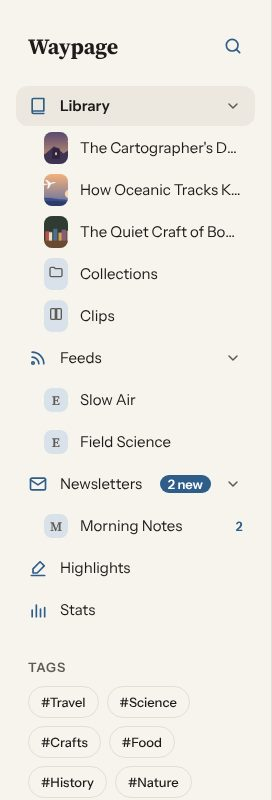
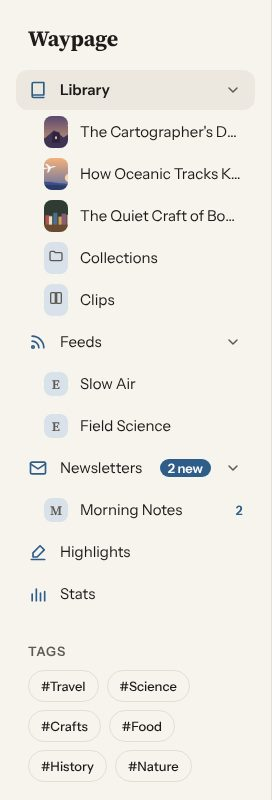
Settings as a window from the gear on big screens; Search and Settings at the top right; keys 1 to 5 for the sidebar's places
Claude-Session: https://claude.ai/code/session_01CFeKriHfoWW1T4GBSE4CQR

diff --git a/src/app-reader.js b/src/app-reader.js
@@ -35,9 +35,9 @@ function cover(node, on) {
 const covered = (node) => !!node.dataset.covered;
 document.addEventListener("focusin", (e) => {
   if (!e.target.closest || !e.target.closest("[data-covered]")) return;
-  const tops = [...document.querySelectorAll(".screen:not([hidden]):not([data-covered]), #sidebar:not([hidden]), #menuSheet:not([hidden])")];
+  const tops = [...document.querySelectorAll(".screen:not([hidden]):not([data-covered]), #sidebar:not([hidden]):not([data-covered]), #menuSheet:not([hidden])")];
   const top = tops[tops.length - 1];
-  const first = top && top.querySelector("button:not(:disabled), [href], input:not(:disabled), [tabindex]:not([tabindex=\"-1\"])");
+  const first = top && [...top.querySelectorAll("button:not(:disabled), [href], input:not(:disabled), [tabindex]:not([tabindex=\"-1\"])")].find((n) => n.getClientRects().length);
   if (first) first.focus({ preventScroll: true }); else e.target.blur();
 });
 
@@ -94,11 +94,13 @@ const asPane = (screen) => screen.id === "readerView" && pinned.matches && inner
 
 function pushScreen(screen) {
   pushes.set(screen, (pushes.get(screen) || 0) + 1);
+  // In Settings' window a section takes the pane at once, like a tab.
   if (screen.id === "sectionView" && wide.matches) {
     screen.dataset.beside = "1";
     screen.hidden = false;
-    return M.push(screen);
+    return Promise.resolve();
   }
+  if (screen.id === "settingsView" && wide.matches) return openWin(screen);
   delete screen.dataset.beside;
   const dialog = asDialog(screen);
   if (dialog || asPane(screen)) {
@@ -135,6 +137,54 @@ function pushScreen(screen) {
   moved.then(() => { if (pushes.get(screen) === n && !screen.hidden && !screen.dataset.leaving) cover(under, true); });
   return moved;
 }
+// Settings on a big screen (1.49.0): a window over the library that
+// grows out of the gear it was opened from and shrinks back into it,
+// like Downloads and Sync. Until then the whole screen slid in from the
+// right and its menu crossed the window to land on the left. Its menu
+// and section are still the two screens they are on a phone, inside
+// #settingsWin, which is their box (display: contents on a phone).
+let winGone = Promise.resolve(), winTurn = 0;
+const gear = () => ($("settingsBtn").offsetParent ? $("settingsBtn") : null);
+function openWin(screen) {
+  const win = $("settingsWin"), c = $("screenCatch");
+  const again = !!win.dataset.open && !win.dataset.leaving;
+  winTurn++;
+  delete win.dataset.leaving;
+  win.dataset.open = "1";
+  screen.hidden = false;
+  c.classList.remove("clear");
+  c.hidden = false;
+  M.dim(c, true);
+  const n = pushes.get(screen);
+  afterSettle(() => {
+    if (pushes.get(screen) !== n || win.dataset.leaving) return;
+    cover(below(screen), true);
+    cover($("sidebar"), true);
+  });
+  if (again) return Promise.resolve();
+  const from = gear();
+  $("settingsBack").focus({ preventScroll: true });
+  return M.popFrom(win, from && from.getBoundingClientRect());
+}
+function closeWin(screen, hide) {
+  const win = $("settingsWin"), c = $("screenCatch"), n = pushes.get(screen), t = ++winTurn;
+  win.dataset.leaving = "1";
+  M.dim(c, false).then(() => { if (winTurn === t) c.hidden = true; });
+  cover(below(screen), false);
+  cover($("sidebar"), false);
+  const to = gear();
+  winGone = M.popInto(win, to && to.getBoundingClientRect()).then(() => {
+    if (pushes.get(screen) !== n || winTurn !== t) return;
+    delete win.dataset.open;
+    delete win.dataset.leaving;
+    hide();
+    const b = gear();
+    const a = document.activeElement;
+    if (b && (!a || a === document.body || a.closest("#settingsWin"))) b.focus({ preventScroll: true });
+  });
+  return winGone;
+}
+
 // Heavy work after an animation's first frame, so it starts at once.
 const afterStart = (fn) => requestAnimationFrame(() => setTimeout(fn, 0));
 // Work after a spring has all but landed (0.30.8).
@@ -143,7 +193,9 @@ const afterSettle = (fn) => setTimeout(fn, M.reduced() ? 130 : 300);
 function popScreen(screen) {
   const n = pushes.get(screen);
   const hide = () => { if (pushes.get(screen) === n) screen.hidden = true; };
-  if (screen.dataset.beside) return M.pop(screen).then(hide);
+  // A section closing with the window goes when the window has gone.
+  if (screen.dataset.beside) return ($("settingsWin").dataset.leaving ? winGone : Promise.resolve()).then(hide);
+  if (screen.id === "settingsView" && $("settingsWin").dataset.open) return closeWin(screen, hide);
   if (screen.dataset.dialog || screen.dataset.pane) {
     screen.dataset.leaving = "1";
     if (screen.dataset.dialog) {
@@ -1707,14 +1759,13 @@ function placeAloudBar() {
   const gutter = parseFloat(getComputedStyle(document.documentElement).getPropertyValue("--gutter")) || 16;
   const safe = parseFloat(getComputedStyle(bar).getPropertyValue("--safe-bottom")) || 0;
   const w = bar.offsetWidth, h = bar.offsetHeight;
-  // Docked at the foot of the pinned sidebar (1.5.0), over Settings,
-  // when the sidebar is what's beside it.
+  // Docked at the foot of the pinned sidebar (1.5.0), when the sidebar
+  // is what's beside it.
   const docked = pinned.matches && !document.querySelector("#readerView:not([hidden]), #settingsView:not([hidden])");
   bar.classList.toggle("docked", docked);
   document.body.classList.toggle("aloud-docked", docked);
   if (docked) {
-    const settings = $("sidebar").querySelector(".side-settings");
-    const foot = settings ? settings.getBoundingClientRect().top : innerHeight - gutter;
+    const foot = innerHeight - gutter;
     bar.style.left = parseFloat(getComputedStyle(document.documentElement).getPropertyValue("--s-4")) + "px";
     bar.style.top = foot - h - 8 + "px";
     return;

diff --git a/src/app-places.js b/src/app-places.js
@@ -802,9 +802,7 @@ function renderSide() {
   const hasFolders = allFolders().length > 0;
   fill($("sidebar"),
     el("div", { class: "side-head" },
-      el("p", { class: "side-title" }, "Waypage"),
-      big && inLib ? el("button", { class: "icon-btn side-search", type: "button", "aria-label": "Search", title: "Search (/)",
-        onclick: () => (pinned.matches ? toLibrary() : back()).then(() => { if (state.place !== "library") goPlace("library"); openSearch(); }) }, sideSvg("search")) : null),
+      el("p", { class: "side-title" }, "Waypage")),
     // From inside Collections, Clips, a collection or the favourites
     // (1.20.0), Library steps all the way back to the library itself.
     ...sideFold("library", item(feedIcon("library"), "Library", inLibrary, null, () =>
@@ -838,7 +836,6 @@ function renderSide() {
 
 function sideMore() {
   const tags = allTags().slice(0, 12);
-  const leave = () => (state.side ? back() : Promise.resolve());
   return [
     tags.length ? el("div", { class: "side-space", "aria-hidden": "true" }) : null,
     tags.length ? el("p", { class: "side-over" }, "Tags") : null,
@@ -848,18 +845,17 @@ function sideMore() {
         onclick: () => goPlace("library").then(() => setFilter(on ? "all" : "#" + t)) }, "#" + t);
       return b;
     })) : null,
+    // Search and Settings live at the top bar's right end, as on a phone
+    // (1.49.0, Daniel's ask), not in the sidebar. The gap keeps room for
+    // the docked Narrate player.
     el("span", { class: "side-gap", "aria-hidden": "true" }),
-    el("button", { class: "side-item side-settings", type: "button", onclick: () => leave().then(() => openSettings()) },
-      sideSvg("settings"), el("span", { class: "side-label" }, "Settings")),
   ];
 }
 
 const SIDE_SVG = {
-  search: '<circle cx="11" cy="11" r="7"/><path d="M20 20l-4-4"/>',
   marks: ICONS.mark,
   reading: '<path d="M5 20V12M10 20V6M15 20v-9M20 20V9"/>',
   mail: '<rect x="3" y="5" width="18" height="14" rx="2"/><path d="M3 7l9 6 9-6"/>',
-  settings: '<circle cx="12" cy="12" r="3"/><path d="M19.4 15a1.7 1.7 0 0 0 .3 1.8l.1.1a2 2 0 1 1-2.8 2.8l-.1-.1a1.7 1.7 0 0 0-1.8-.3 1.7 1.7 0 0 0-1 1.5V21a2 2 0 1 1-4 0v-.1a1.7 1.7 0 0 0-1.1-1.5 1.7 1.7 0 0 0-1.8.3l-.1.1a2 2 0 1 1-2.8-2.8l.1-.1a1.7 1.7 0 0 0 .3-1.8 1.7 1.7 0 0 0-1.5-1H3a2 2 0 1 1 0-4h.1a1.7 1.7 0 0 0 1.5-1.1 1.7 1.7 0 0 0-.3-1.8l-.1-.1a2 2 0 1 1 2.8-2.8l.1.1a1.7 1.7 0 0 0 1.8.3H9a1.7 1.7 0 0 0 1-1.5V3a2 2 0 1 1 4 0v.1a1.7 1.7 0 0 0 1 1.5 1.7 1.7 0 0 0 1.8-.3l.1-.1a2 2 0 1 1 2.8 2.8l-.1.1a1.7 1.7 0 0 0-.3 1.8V9a1.7 1.7 0 0 0 1.5 1H21a2 2 0 1 1 0 4h-.1a1.7 1.7 0 0 0-1.5 1z"/>',
 };
 function sideSvg(name) {
   const box = el("span", { class: "side-icon", "aria-hidden": "true" });
@@ -961,7 +957,8 @@ function fitWidth() {
 // rest of the app has letters too, listed behind "?". Keys pressed in
 // the reader's page come here through reader.js.
 const KEYS = [
-  ["Anywhere", [["/", "Search the library"], [(/Mac/.test(navigator.platform) && navigator.maxTouchPoints < 2 ? "⌘" : "Ctrl") + " V", "Save a copied link"], ["G then L", "Go to the library"],
+  ["Anywhere", [["/", "Search the library"], [(/Mac/.test(navigator.platform) && navigator.maxTouchPoints < 2 ? "⌘" : "Ctrl") + " V", "Save a copied link"],
+    ["1  2  3  4  5", "Library, Feeds, Newsletters, Highlights, Stats"], ["G then L", "Go to the library"],
     ["G then F", "Go to Feeds"], ["G then N", "Go to Newsletters"], ["G then H", "Go to Highlights"], ["G then S", "Go to Stats"], ["D", "Downloads"], [",", "Settings"], ["?", "These shortcuts"]]],
   ["In the library", [["↑ ↓", "Move between clips"], ["Enter", "Open"], ["X", "Pick, to act on several"], ["Shift-click", "Pick a run"],
     ["F", "Favourite"], ["E", "Export"], ["Del", "Delete"]]],
@@ -1006,6 +1003,7 @@ function jumpSection(d) {
 }
 
 let gAt = 0;
+const PLACE_KEYS = ["library", "feeds", "newsletters", "highlights", "reading"];
 function onKeys(e) {
   if (e.defaultPrevented || e.isComposing) return;
   const k = e.key, inFrame = e.target && e.target.ownerDocument !== document;
@@ -1062,6 +1060,8 @@ function onKeys(e) {
   const p = focusedPage(), node = focusedNode();
   const acts = {
     g: () => { gAt = Date.now(); },
+    // 1 to 5: the sidebar's places, in its order (1.49.0).
+    ...Object.fromEntries(PLACE_KEYS.map((to, i) => [String(i + 1), () => goPlace(to)])),
     "/": () => (state.folder ? toLibrary() : Promise.resolve()).then(() => {
       if (state.place === "highlights") { $("highlights").querySelector(".hl-search input").focus(); return; }
       return (["feeds", "reading"].includes(state.place) ? goPlace("library") : Promise.resolve()).then(openSearch);

diff --git a/src/styles.css b/src/styles.css
@@ -483,6 +483,8 @@ a.btn-small { text-decoration: none; white-space: nowrap; display: inline-flex; 
 }
 @keyframes breathe { 50% { opacity: 0.35; } }
 
+/* Settings' two screens; a box of their own only on a big screen. */
+.settings-win { display: contents; }
 .screen {
   position: fixed; inset: 0; z-index: 10;
   display: flex; flex-direction: column;
@@ -2260,7 +2262,6 @@ html { -webkit-tap-highlight-color: transparent; }
   .sidebar { width: min(var(--side-w), 85vw); padding: calc(var(--s-5) + env(safe-area-inset-top)) var(--s-4) calc(var(--s-4) + env(safe-area-inset-bottom)); }
   .side-head { display: flex; align-items: center; justify-content: space-between; margin: 0 0 var(--s-4) var(--s-3); }
   .side-head .side-title { margin: 0; }
-  .side-search { color: var(--muted); }
   .side-item { margin: 0; }
   .side-row { margin: 0; }
   .side-sub { margin-inline-start: var(--s-4); }
@@ -2268,7 +2269,6 @@ html { -webkit-tap-highlight-color: transparent; }
   .side-tags { display: flex; flex-wrap: wrap; gap: var(--s-2); padding: 0 var(--s-3); }
   .side-tag { min-height: 32px; }
   .side-gap { flex: 1; min-height: var(--s-4); }
-  .side-settings .side-icon { color: var(--muted); }
 }
 @media (min-width: 700px) and (pointer: fine) {
   .side-item { min-height: 40px; }
@@ -2284,7 +2284,7 @@ html { -webkit-tap-highlight-color: transparent; }
   }
   body.pinned { --lib-left: var(--side-w); --lib-pad: max(var(--gutter), calc((100vw - var(--side-w) - var(--content-max)) / 2)); }
   body.pinned #libraryView { margin-inline-start: var(--side-w); }
-  body.pinned .menu-btn, body.pinned #searchBtn, body.pinned #settingsBtn { display: none; }
+  body.pinned .menu-btn { display: none; }
   body.pinned .side-catch { display: none; }
   /* A collection opens beside the sidebar; the reader and Settings cover
      everything. */
@@ -2430,6 +2430,24 @@ kbd {
   #sectionView .bar-title { text-align: start; font: 700 var(--fs-screen)/var(--lh-screen) var(--serif); }
   #sectionView .screen-body { padding: var(--s-5) var(--s-7) var(--s-8); }
   #sectionView .screen-body > * { margin-left: 0; max-width: 42rem; }
+
+  /* Settings' window (1.49.0): the menu and section inside a box over the
+     library, grown from the gear (openWin in app-reader.js). The box
+     contains them, so their inset: 0 fills it. */
+  .settings-win {
+    display: block; position: fixed; inset: 0; z-index: 13; margin: auto;
+    width: min(65rem, calc(100vw - 2 * var(--s-5))); height: min(46rem, calc(100dvh - 2 * var(--s-6)));
+    background: var(--bg); border: 1px solid var(--line); border-radius: var(--r-lg);
+    box-shadow: 0 24px 64px var(--shadow); overflow: hidden; contain: layout paint;
+  }
+  .settings-win:not([data-open]) { display: none; }
+  .settings-win > .screen { box-shadow: none; }
+  #newsView { z-index: 14; }
+}
+@media (min-width: 700px) and (max-width: 1023px) {
+  .settings-win { --settings-w: 240px; }
+  #sectionView .screen-bar { padding: var(--s-5) var(--s-5) 0; }
+  #sectionView .screen-body { padding: var(--s-4) var(--s-5) var(--s-7); }
 }
 @media (min-width: 700px) and (pointer: fine) {
   .menu-sheet .sheet-row, .reader .sheet .row { min-height: 40px; }

diff --git a/index.html b/index.html
@@ -262,6 +262,7 @@
       <div class="downloads" id="syncList"></div>
     </div>
   </section>
+  <div class="settings-win" id="settingsWin">
   <section class="screen" id="settingsView" hidden aria-label="Settings">
     <header class="screen-bar">
       <button class="icon-btn" id="settingsBack" type="button" aria-label="Back to library">
@@ -291,6 +292,7 @@
     </header>
     <div class="screen-body" id="sectionBody"></div>
   </section>
+  </div>
   <section class="screen" id="newsView" hidden aria-label="What's new">
     <header class="screen-bar">
       <button class="icon-btn" id="newsBack" type="button" aria-label="Back">

diff --git a/src/app-start.js b/src/app-start.js
@@ -25,9 +25,9 @@ function route(s) {
   if (!inSettings) closeSettings();
   else if (!s.section) {
     // Back from a section beside the menu leaves Settings altogether.
-    const had = state.section && state.settings && wide.matches && view === "settings";
+    // The section stays in the window until the window has gone.
+    if (state.section && state.settings && wide.matches && view === "settings") { history.back(); return; }
     closeSection();
-    if (had) { history.back(); return; }
   }
   if (view !== "batch") closeBatch();
   if (view === "batch") openBatch("", true, s.folder);

diff --git a/src/app-settings.js b/src/app-settings.js
@@ -1196,9 +1196,9 @@ function openSettings(fromHistory, at) {
 
 function closeSettings() {
   if (!state.settings) return;
-  closeSection();
-  state.settings = false;
-  popScreen($("settingsView"));
+  // In the window, the window leaves first and takes its section with it.
+  if (wide.matches) { state.settings = false; popScreen($("settingsView")); closeSection(); }
+  else { closeSection(); state.settings = false; popScreen($("settingsView")); }
   const q = $("settingsSearch");
   if (q) { q.value = ""; $("settingsSearchClear").hidden = true; }
   settingsIdx = null;

diff --git a/README.md b/README.md
@@ -50,7 +50,7 @@ Each section below shows the computer (left) and the phone (right).
 
 - Library with favourites, Collections and Clips; Feeds; Newsletters with the latest addresses and unread counts; Highlights; Stats; tags.
 - Library, Feeds and Newsletters fold under an arrow inside their row.
-- Always there on a wide screen, slides in on a phone.
+- Always there on a wide screen, slides in on a phone. Keys 1 to 5 go to its places.
 
 ## Collections and files
 
@@ -173,7 +173,7 @@ Each section below shows the computer (left) and the phone (right).
 
 <p><img src="docs/shots/settings-desktop.jpg" width="74%" alt="Settings on a computer"> <img src="docs/shots/settings-phone.jpg" width="21%" alt="Settings on a phone"></p>
 
-- Settings in groups: Appearance, Reading, Library, App lock, Saving, GitHub sync, Google Drive, Storage; a search box at the top finds any setting.
+- Settings in groups: Appearance, Reading, Library, App lock, Saving, GitHub sync, Google Drive, Storage; a search box at the top finds any setting. On a computer or tablet it opens as a window from the gear at the top right.
 - Every setting is a name and one short line; the longer explanation is behind a ? on its heading. Options are drop-downs, themes a grid of swatches.
 - About has the version, the changelog, and Credits: what Waypage is built with.
 - App lock: passcode, fingerprint or face on Android, erase when forgotten.

diff --git a/NOTES.md b/NOTES.md
@@ -18,6 +18,20 @@ Moved here from TODO.md (11 Oct 2026), which now lists only open work.
 
 ## Entries
 
+**Settings is a window on a big screen (1.49.0).** From 700 px it slid
+in from the right like a phone screen, but its menu ends up on the
+left, where the sidebar is, so the menu crossed the whole window to get
+there (Daniel: "comes from the wrong side"). It now grows out of the
+gear as a window over the dimmed library, like Downloads and Sync
+(Daniel's pick of two, the other being menu from the left and section
+from the right). The menu and section stay two screens so the phone is
+untouched; `#settingsWin` around them is `display: contents` on a phone
+and their box (with `contain: layout paint`, so their `position: fixed;
+inset: 0` fills it) from 700 px. A section changes in place there, and
+leaves with the window rather than first. Search and Settings moved
+from the sidebar to the top bar's right end at the same time (Daniel's
+ask), so the window has one place to grow from on every big screen.
+
 **Preview builds are pre-releases, one per branch (1.48.0).** The
 workflow artifact was the first idea: it needs no token either, but it
 is a zip, its link lives a minute, and it is gone after 90 days. A

diff --git a/DESIGN.md b/DESIGN.md
@@ -126,7 +126,10 @@ and the page shows above it.
   halfway. Only transform and opacity move. The one fade with motion on.
 - Screens with no card behind them (Settings, a pane) come in from the
   right; on touch the screen under them drifts 25% left. Downloads and
-  dialogs grow from their button. Menus and popovers grow from their
+  dialogs grow from their button. On a big screen (700 px and up)
+  Settings is a window that grows from the gear (1.49.0): there,
+  nothing crosses the window to land on the far side; a screen comes
+  from its button or from the side it ends up on. Menus and popovers grow from their
   button, ⋯ or the point pressed.
 - Collections › and Clips ›: the cards and tiles that stay move to their
   new places (FLIP); the sections that go leave past the top or bottom

diff --git a/DONE.md b/DONE.md
@@ -68,7 +68,7 @@ release ships a feature, it gets a line here and leaves TODO.md.
 - Look up in your own StarDict dictionaries, offline: added in Settings › Reading, with word endings, synonyms and Hebrew prefixes (1.45.0)
 - Brightness swipe with Auto, movable to the right (1.10.0, 1.14.0, 1.16.0)
 - Previous/Next and a collection list in the reader (1.23.0)
-- Big-screen layouts and keyboard shortcuts (1.5.0)
+- Big-screen layouts and keyboard shortcuts (1.5.0); Settings as a window from the gear, Search and Settings at the top right, keys 1 to 5 for the sidebar's places (1.49.0)
 - Dim pictures in dark themes (1.32.0)
 - Volume buttons turn pages on Android (1.32.0)
 

diff --git a/CHANGELOG.md b/CHANGELOG.md
@@ -2,6 +2,18 @@
 
 All notable changes to Carry-on. Newest first.
 
+## Unreleased
+
+### Changed
+- Computer and tablet: Settings opens as a window over the library. It
+  grows out of the gear and shrinks back into it, instead of sliding in
+  from the right across the whole window.
+- Computer: Search and Settings sit at the top right, beside Downloads,
+  instead of in the sidebar.
+
+### Added
+- Keys 1 to 5 go to Library, Feeds, Newsletters, Highlights and Stats.
+
 ## [1.48.4] - 2026-11-01
 
 ### Changed
